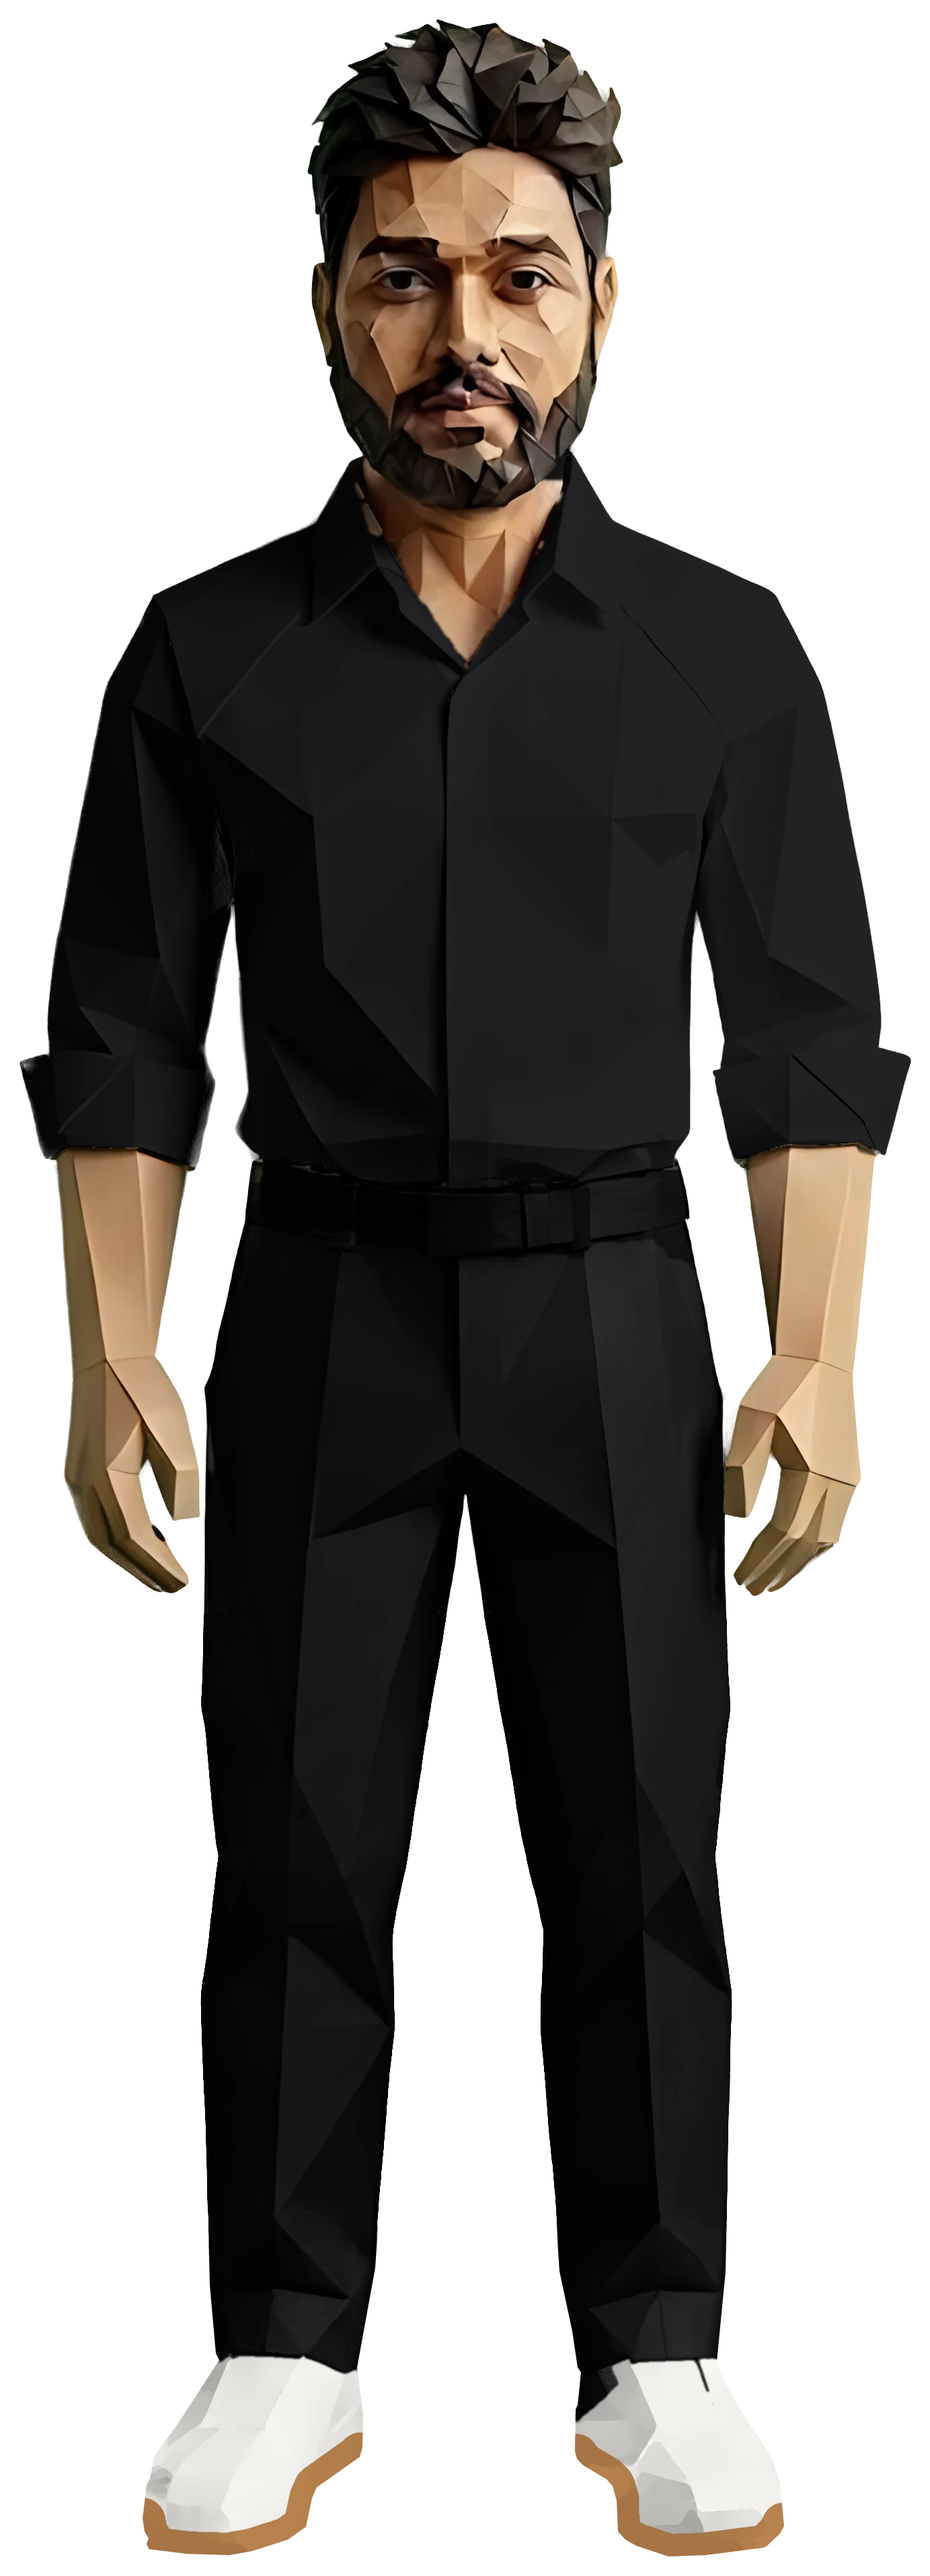
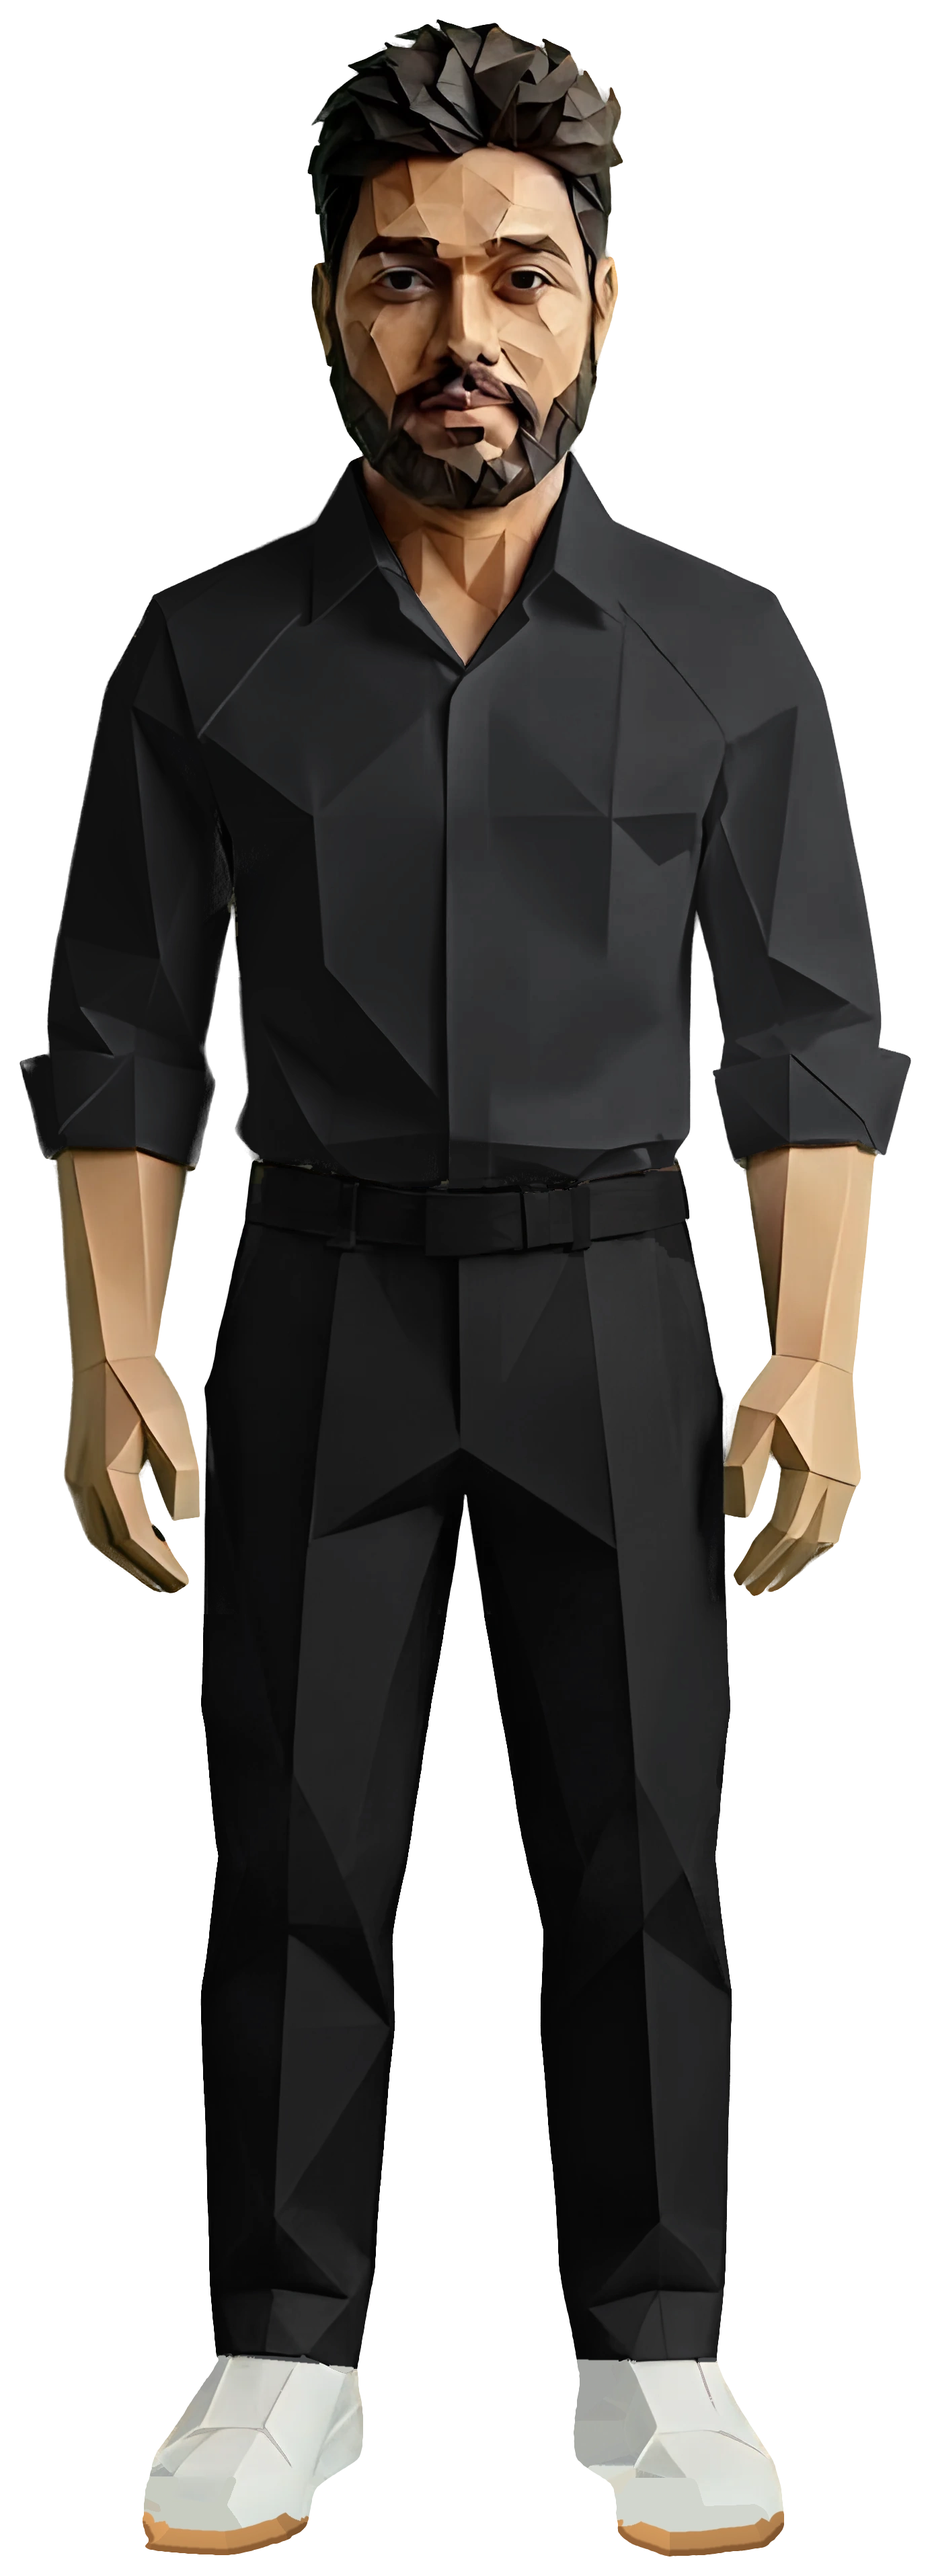
His black clothes keep the paper's folds, and the collar, neck and shoes are clean: the shirt's and trousers' facets are opened up again so the folds read on the black, the collar's inner band is black on both sides with the neck's skin left whole (no light sliver beside the collar, no black under t

diff --git a/src/components/PaperFigure.tsx b/src/components/PaperFigure.tsx
@@ -18,9 +18,11 @@ import { onHome } from '../lib/home'
  *
  * The shards are drawn on a canvas as wide as the hero and as tall as its first screen, which the hero
  * keeps behind its words and over the giant name (`layer`, its [data-shard-layer]); the figure's own box,
- * where he stands, takes the clicks and holds the still picture. WebGL2: the page's light, then the shards
- * in one draw call; everything per shard happens in the vertex shader. Without WebGL, or with "reduce
- * motion" on, the plain cut-out is shown, with the same glow and shadow done in CSS (index.css).
+ * where he stands, takes the clicks and holds the still picture. WebGL2: his shadow, then the shards in one
+ * draw call; everything per shard happens in the vertex shader. The glow is the browser's own gradient (a
+ * div under the canvas, kept in place each frame), as smooth on a 4K OLED as on any screen. Without WebGL,
+ * or with "reduce motion" on, the plain cut-out is shown, with the same glow and shadow done in CSS
+ * (index.css).
  */
 
 /** Texture pixels: the cut-out's size (the picture upscaled 4x). */
@@ -45,9 +47,9 @@ const RED = [240 / 255, 65 / 255, 46 / 255] as const
 
 /**
  * The page's light round him, in fractions of his box. Black page: an ellipse of warm light behind his
- * chest, 1.15 box-widths and 0.62 box-heights across each way from 42% down. Paper page: his outline in a
- * warm dark at 26%, moved 5% of his width right and 1.4% of his height down, blurred by 1.1% of his height.
- * (index.css has the same two for the still picture.)
+ * chest, 1.15 box-widths and 0.62 box-heights across each way from 42% down (its gradient is .figure-glow in
+ * index.css). Paper page: his outline in a warm dark at 26%, moved 5% of his width right and 1.4% of his
+ * height down, blurred by 1.1% of his height. (index.css has the same two for the still picture.)
  */
 const GLOW = { rx: 1.15, ry: 0.62, cy: 0.42 }
 const SHADOW = { dx: 0.05, dy: 0.014, blur: 0.011 }
@@ -167,23 +169,12 @@ void main() {
 const AURA_FRAG = /* glsl */ `#version 300 es
 precision highp float;
 uniform sampler2D u_shade; // his outline, blurred (the red channel)
-uniform float u_mode;      // 0: the glow, 1: the shadow
 uniform float u_amount;    // 0..1
 in vec2 v_q;
 out vec4 o;
 void main() {
-  if (u_mode < 0.5) {
-    // warm light, strongest behind his chest and gone at the ellipse's rim
-    float r = length(v_q * 2.0 - 1.0);
-    float a = r < 0.38 ? mix(0.115, 0.07, r / 0.38) : r < 0.7 ? mix(0.07, 0.025, (r - 0.38) / 0.32) : mix(0.025, 0.0, clamp((r - 0.7) / 0.3, 0.0, 1.0));
-    a *= u_amount;
-    // a little noise (under one step of the screen's 256), so the long, faint ramp shows no bands
-    if (a > 0.0) a = max(0.0, a + (fract(sin(dot(gl_FragCoord.xy, vec2(12.9898, 78.233))) * 43758.5453) - 0.5) / 255.0);
-    o = vec4(vec3(1.0, 0.965, 0.925) * a, a);
-  } else {
-    float a = texture(u_shade, v_q).r * 0.26 * u_amount;
-    o = vec4(vec3(0.169, 0.133, 0.098) * a, a);
-  }
+  float a = texture(u_shade, v_q).r * 0.26 * u_amount;
+  o = vec4(vec3(0.169, 0.133, 0.098) * a, a);
 }`
 
 export function PaperFigure({ layer, className = '' }: { layer: HTMLElement | null; className?: string }) {
@@ -193,6 +184,7 @@ export function PaperFigure({ layer, className = '' }: { layer: HTMLElement | nu
   const [state, setState] = useState<State>('loading')
   const toggleRef = useRef<() => void>(() => {})
   const labelRef = useRef<HTMLDivElement>(null)
+  const glowRef = useRef<HTMLDivElement>(null)
   const hovered = useRef(false)
   const { image } = site.hero
 
@@ -333,7 +325,6 @@ export function PaperFigure({ layer, className = '' }: { layer: HTMLElement | nu
       const AU = {
         view: auraLoc('u_view'),
         rect: auraLoc('u_rect'),
-        mode: auraLoc('u_mode'),
         amount: auraLoc('u_amount'),
       }
       gl.useProgram(aura)
@@ -342,6 +333,7 @@ export function PaperFigure({ layer, className = '' }: { layer: HTMLElement | nu
       // how much of each shows: the glow on the black page, the shadow on the paper page (eased when the theme
       // switches; set straight away on the first frame)
       const lit = { glow: -1, shadow: -1 }
+      let glowLast: string[] = []
 
       // --- size: the canvas is as wide as the hero and runs from its top past his feet, to the bottom of
       // the screen at least (on wide screens that is the whole hero; on phones and tablets the first screen,
@@ -595,26 +587,34 @@ export function PaperFigure({ layer, className = '' }: { layer: HTMLElement | nu
         const fade = Math.min(1, (now - born) / FADE_IN)
         const glowA = lit.glow * fade
         const shadowA = lit.shadow * (1 - k) * fade
-        if (glowA > 0.002 || shadowA > 0.002) {
-          const fw = TEX_W * s
-          const fh = TEX_H * s
+        const fw = TEX_W * s
+        const fh = TEX_H * s
+        // (the glow: the div under the canvas, moved with him; only what changed is written)
+        const glowEl = glowRef.current
+        if (glowEl) {
+          const next = [
+            `translate(${(x + fw * (0.5 - GLOW.rx)).toFixed(1)}px, ${(y + fh * (GLOW.cy - GLOW.ry)).toFixed(1)}px)`,
+            `${(fw * GLOW.rx * 2).toFixed(1)}px`,
+            `${(fh * GLOW.ry * 2).toFixed(1)}px`,
+            glowA < 0.002 ? '0' : glowA.toFixed(3),
+          ]
+          if (next.some((v, i) => v !== glowLast[i])) {
+            glowEl.style.transform = next[0]
+            glowEl.style.width = next[1]
+            glowEl.style.height = next[2]
+            glowEl.style.opacity = next[3]
+            glowLast = next
+          }
+        }
+        if (shadowA > 0.002) {
           gl.useProgram(aura)
           gl.bindVertexArray(auraVao)
           gl.disable(gl.DEPTH_TEST)
           gl.depthMask(false)
           gl.uniform2f(AU.view, view.w, view.h)
-          if (shadowA > 0.002) {
-            gl.uniform1f(AU.mode, 1)
-            gl.uniform1f(AU.amount, shadowA)
-            gl.uniform4f(AU.rect, x + (SHADOW.dx - shade.px) * fw, y + (SHADOW.dy - shade.py) * fh, fw * (1 + 2 * shade.px), fh * (1 + 2 * shade.py))
-            gl.drawArrays(gl.TRIANGLE_STRIP, 0, 4)
-          }
-          if (glowA > 0.002) {
-            gl.uniform1f(AU.mode, 0)
-            gl.uniform1f(AU.amount, glowA)
-            gl.uniform4f(AU.rect, x + fw * (0.5 - GLOW.rx), y + fh * (GLOW.cy - GLOW.ry), fw * GLOW.rx * 2, fh * GLOW.ry * 2)
-            gl.drawArrays(gl.TRIANGLE_STRIP, 0, 4)
-          }
+          gl.uniform1f(AU.amount, shadowA)
+          gl.uniform4f(AU.rect, x + (SHADOW.dx - shade.px) * fw, y + (SHADOW.dy - shade.py) * fh, fw * (1 + 2 * shade.px), fh * (1 + 2 * shade.py))
+          gl.drawArrays(gl.TRIANGLE_STRIP, 0, 4)
           gl.enable(gl.DEPTH_TEST)
           gl.depthMask(true)
           gl.useProgram(prog)
@@ -687,7 +687,10 @@ export function PaperFigure({ layer, className = '' }: { layer: HTMLElement | nu
         <>
           {layer &&
             createPortal(
-              <canvas ref={canvasRef} role="img" aria-label={site.name} className="pointer-events-none block w-full" />,
+              <>
+                <div ref={glowRef} aria-hidden className="figure-glow" />
+                <canvas ref={canvasRef} role="img" aria-label={site.name} className="pointer-events-none block w-full" />
+              </>,
               layer,
             )}
           <button

diff --git a/e2e/figure.spec.ts b/e2e/figure.spec.ts
@@ -70,8 +70,23 @@ async function at(page: Page, fx: number, fy: number) {
     [fx, fy],
   )
 }
-/** The glow: a point beside his head, inside the glow's ellipse and clear of him. */
-const glow = (page: Page) => at(page, 0.1, 0.15)
+/** The glow (the browser's own gradient, a div under the canvas): how much shows, where, and how big, with his box. */
+async function glow(page: Page) {
+  return page.evaluate(() => {
+    const el = document.querySelector<HTMLElement>('#top [data-shard-layer] .figure-glow')!
+    const g = el.getBoundingClientRect()
+    const b = document.querySelector<HTMLElement>('#top [data-paper-figure]')!.getBoundingClientRect()
+    const cs = getComputedStyle(el)
+    return {
+      opacity: Number(cs.opacity),
+      bg: cs.backgroundImage,
+      dx: g.left + g.width / 2 - (b.left + b.width / 2),
+      cy: (g.top + g.height / 2 - b.top) / b.height,
+      w: g.width / b.width,
+      h: g.height / b.height,
+    }
+  })
+}
 /** The shadow: the darkest paint just right of his arm (the shadow falls a little right and down). */
 async function shadow(page: Page) {
   let most = 0
@@ -268,12 +283,19 @@ test.describe('paper figure', () => {
     await openHome(page)
     const figure = page.locator('#top [data-paper-figure]')
     await expect(figure).toHaveAttribute('data-paper-figure', 'ready', { timeout: 10_000 })
+    // the browser's own gradient under the shards, centred on him: 2.3 of his widths across, 1.24 of his
+    // heights tall, its middle 42% down him
     const g = await glow(page)
-    // faint warm light: well under the paint the tests above look for (alpha 40)
-    expect(g.a).toBeGreaterThan(4)
-    expect(g.a).toBeLessThan(32)
-    expect(g.r).toBeGreaterThan(200)
-    expect(await shadow(page)).toBe(0)
+    expect(g.opacity).toBeGreaterThan(0.95)
+    expect(g.bg).toContain('radial-gradient')
+    expect(Math.abs(g.dx)).toBeLessThan(2)
+    expect(g.w).toBeCloseTo(2.3, 1)
+    expect(g.h).toBeCloseTo(1.24, 1)
+    expect(g.cy).toBeCloseTo(0.42, 1)
+    // (and nothing of it in the canvas, which has neither glow nor shadow on this page: at most the faint
+    // anti-aliased edge of his sleeve where the shadow would fall)
+    expect((await at(page, 0.1, 0.15)).a).toBeLessThan(3)
+    expect(await shadow(page)).toBeLessThan(3)
   })
 
   test('on the paper page his shadow falls on the page instead', async ({ page }) => {
@@ -282,16 +304,16 @@ test.describe('paper figure', () => {
     const figure = page.locator('#top [data-paper-figure]')
     await expect(figure).toHaveAttribute('data-paper-figure', 'ready', { timeout: 10_000 })
     expect(await shadow(page)).toBeGreaterThan(15)
-    expect((await glow(page)).a).toBeLessThan(3)
+    expect((await glow(page)).opacity).toBeLessThan(0.01)
   })
 
   test('switching the theme swaps the glow for the shadow', async ({ page }) => {
     await openHome(page)
     const figure = page.locator('#top [data-paper-figure]')
     await expect(figure).toHaveAttribute('data-paper-figure', 'ready', { timeout: 10_000 })
-    expect((await glow(page)).a).toBeGreaterThan(4)
+    expect((await glow(page)).opacity).toBeGreaterThan(0.95)
     await page.getByRole('button', { name: 'Switch to light theme' }).click()
-    await expect.poll(async () => (await glow(page)).a, { timeout: 5_000 }).toBeLessThan(3)
+    await expect.poll(async () => (await glow(page)).opacity, { timeout: 5_000 }).toBeLessThan(0.01)
     await expect.poll(() => shadow(page), { timeout: 5_000 }).toBeGreaterThan(15)
   })
 

diff --git a/src/index.css b/src/index.css
@@ -1084,10 +1084,25 @@ html.lenis, html.lenis body { height: auto; }
 .figure-pill { transition: opacity 0.7s var(--ease-out), scale 0.2s var(--ease-out); }
 .figure-pill:active { scale: 0.96; }
 
-/* the page's light round the still picture of him (motion reduced, or no WebGL); the moving figure draws the
-   same two itself (PaperFigure.tsx). Paper page: his paper shadow, a little down and to the right, as if the
-   cut-out stands just in front of the page. Black page: a soft glow behind his chest, so his black clothes
-   never sink into the page. (drop-shadow's third length is the blur's standard deviation, as in blur().) */
+/* the page's light round him. Black page: a soft glow behind his chest, so his black clothes never sink into
+   the page; it is the browser's own gradient (dithered, and drawn at the screen's full depth, so it stays as
+   smooth on a 4K OLED as anywhere), placed by PaperFigure.tsx under the shards. Paper page: his paper shadow,
+   a little down and to the right, as if the cut-out stands just in front of the page (the moving figure draws
+   that one itself). The still picture of him (motion reduced, or no WebGL) has both here. (drop-shadow's third
+   length is the blur's standard deviation, as in blur().) */
+:root {
+  --figure-glow: radial-gradient(closest-side, rgb(255 246 236 / 0.115), rgb(255 246 236 / 0.07) 38%, rgb(255 246 236 / 0.025) 70%, rgb(255 246 236 / 0) 100%);
+}
+.figure-glow {
+  position: absolute;
+  z-index: -1;
+  left: 0;
+  top: 0;
+  opacity: 0;
+  pointer-events: none;
+  background: var(--figure-glow);
+  will-change: transform, opacity;
+}
 [data-paper-figure="still"] { isolation: isolate; container-type: size; }
 [data-paper-figure="still"] img { filter: drop-shadow(5cqw 1.4cqh 1.1cqh rgb(43 34 25 / 0.26)); }
 :root[data-mode="dark"] [data-paper-figure="still"] img { filter: none; }
@@ -1101,7 +1116,7 @@ html.lenis, html.lenis body { height: auto; }
   height: 124%;
   translate: -50% -50%;
   pointer-events: none;
-  background: radial-gradient(closest-side, rgb(255 246 236 / 0.115), rgb(255 246 236 / 0.07) 38%, rgb(255 246 236 / 0.025) 70%, rgb(255 246 236 / 0) 100%);
+  background: var(--figure-glow);
 }
 
 /* section headings drift a little slower than the page while they cross the screen (depth, no cost to
